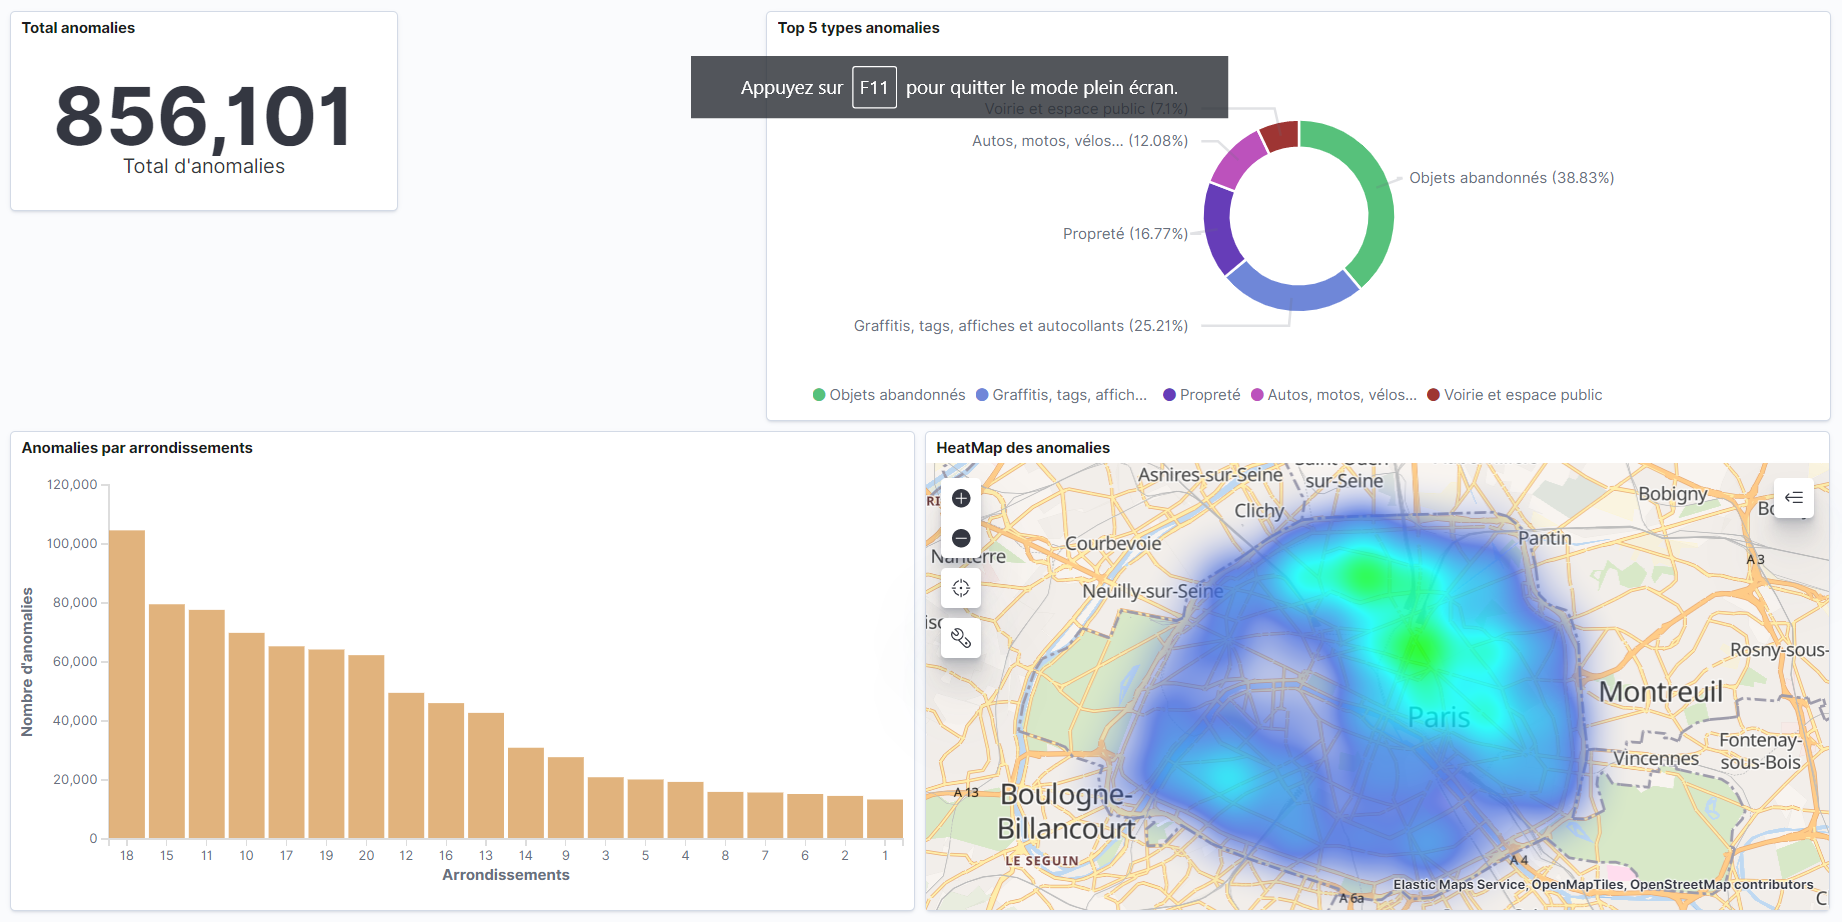
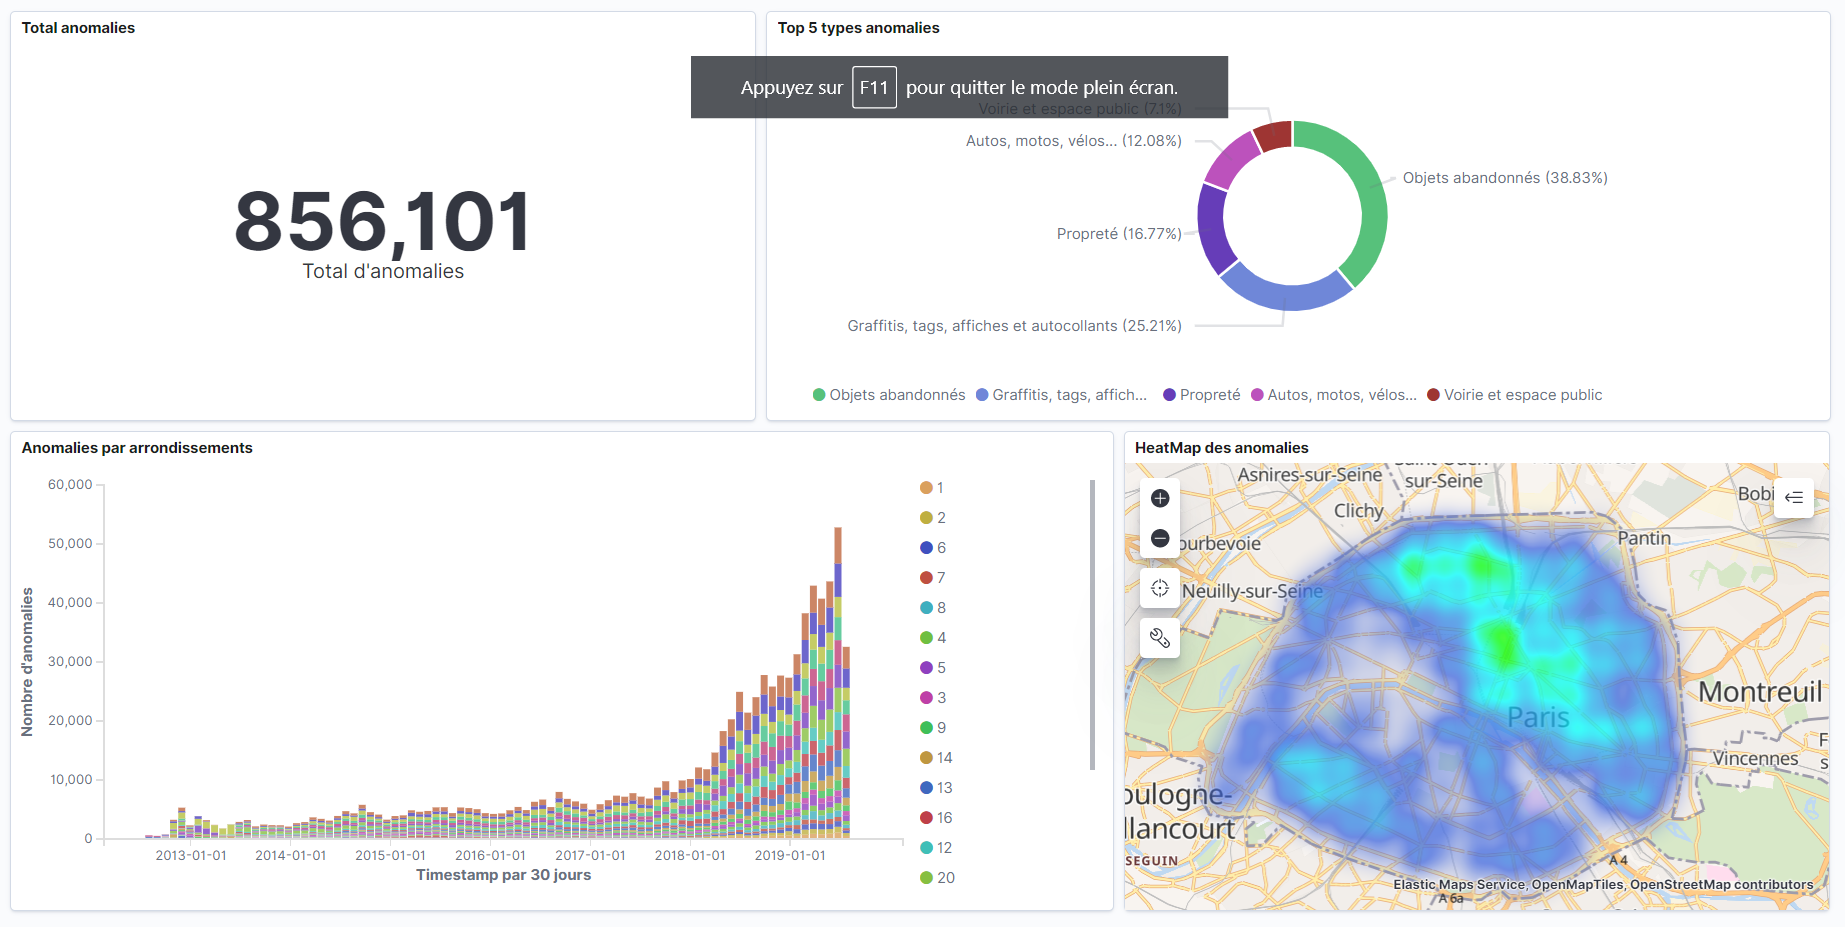
update

diff --git a/services/stats.js b/services/stats.js
@@ -2,7 +2,7 @@ const config = require('config');
 const indexName = config.get('elasticsearch.index_name');
 
 exports.statsByArrondissement = (client, callback) => {
-    // TODO Compter le nombre d'anomalies par arondissement
+    // Compter le nombre d'anomalies par arondissement
     client.search({
         index: indexName,
         body: {
@@ -10,7 +10,7 @@ exports.statsByArrondissement = (client, callback) => {
             aggs: {
                 "arrondissements": {
                     terms: {
-                        field: "anomalie.arrondissement.keyword",
+                        field: "arrondissement.keyword",
                         size: 30
                     }
                 }
@@ -22,21 +22,21 @@ exports.statsByArrondissement = (client, callback) => {
 }
 
 exports.statsByType = (client, callback) => {
-    // TODO Trouver le top 5 des types et sous types d'anomalies
+    // Trouver le top 5 des types et sous types d'anomalies
     client.search({
         index: indexName,
         body: {
-            "size": 0,
-            "aggs" : {
+            size: 0,
+            aggs : {
                 "types" : {
-                    "terms": {
-                        "field": "anomalie.type.keyword",
-                        "size" : 5
+                    terms: {
+                        field: "type.keyword",
+                        size : 5
                     }
                 },"soustypes" : {
-                    "terms": {
-                        "field": "anomalie.sous_type.keyword",
-                        "size" : 5
+                    terms: {
+                        field: "sous_type.keyword",
+                        size : 5
                     }
                 }
             }
@@ -58,7 +58,7 @@ exports.statsByMonth = (client, callback) => {
             aggs: {
                 "mois": {
                     terms: {
-                        field: "anomalie.mois_declaration.keyword",
+                        field: "mois_declaration.keyword",
                         size: 10
                     }
                 }
@@ -77,11 +77,11 @@ exports.statsPropreteByArrondissement = (client, callback) => {
             size: 0,
             aggs: {
                 "arrondissementsByType": {
-                    filter: { term: { "anomalie.type.keyword": "Propreté" }},
+                    filter: { term: { "type.keyword": "Propreté" }},
                     aggs: {
                         "arrondissements": {
                             terms: {
-                                field: "anomalie.arrondissement.keyword",
+                                field: "arrondissement.keyword",
                                 size: 3
                             }
                         }

diff --git a/import.js b/import.js
@@ -13,7 +13,7 @@ async function run() {
       index : indexName
     });
   } catch (error) {
-    console.log("index can't be deleted : doesn't exist.")
+    console.log("Index can't be deleted. Error : " + error.message);
   }
 
   await client.indices.create({ index: indexName })
@@ -22,7 +22,7 @@ async function run() {
     index: indexName,
     body: {
       properties: {
-        "anomalie.location" : {
+        "location" : {
           type: 'geo_point'
         }
       }
@@ -73,7 +73,7 @@ run().catch(console.error);
 function createBulkInsertQuery(anomalies) {
   const body = anomalies.reduce((acc, anomalie) => {
     acc.push({ index: { _index: indexName, _type: '_doc', _id: anomalie.object_id } })
-    acc.push({ anomalie })
+    acc.push(anomalie)
     return acc
   }, []);
 

diff --git a/services/count.js b/services/count.js
@@ -9,7 +9,7 @@ exports.count = (client, from, to, callback) => {
       body: {
         query: {
           range: {
-            "anomalie.timestamp" : {
+            "timestamp" : {
               gte: from,
               lt: to
             }
@@ -37,7 +37,7 @@ exports.countAround = (client, lat, lon, radius, callback) => {
                     filter: {
                         geo_distance: {
                             distance: radius,
-                            "anomalie.location": lat + ',' + lon
+                            "location": lat + ',' + lon
                         }
                     }
                 }
